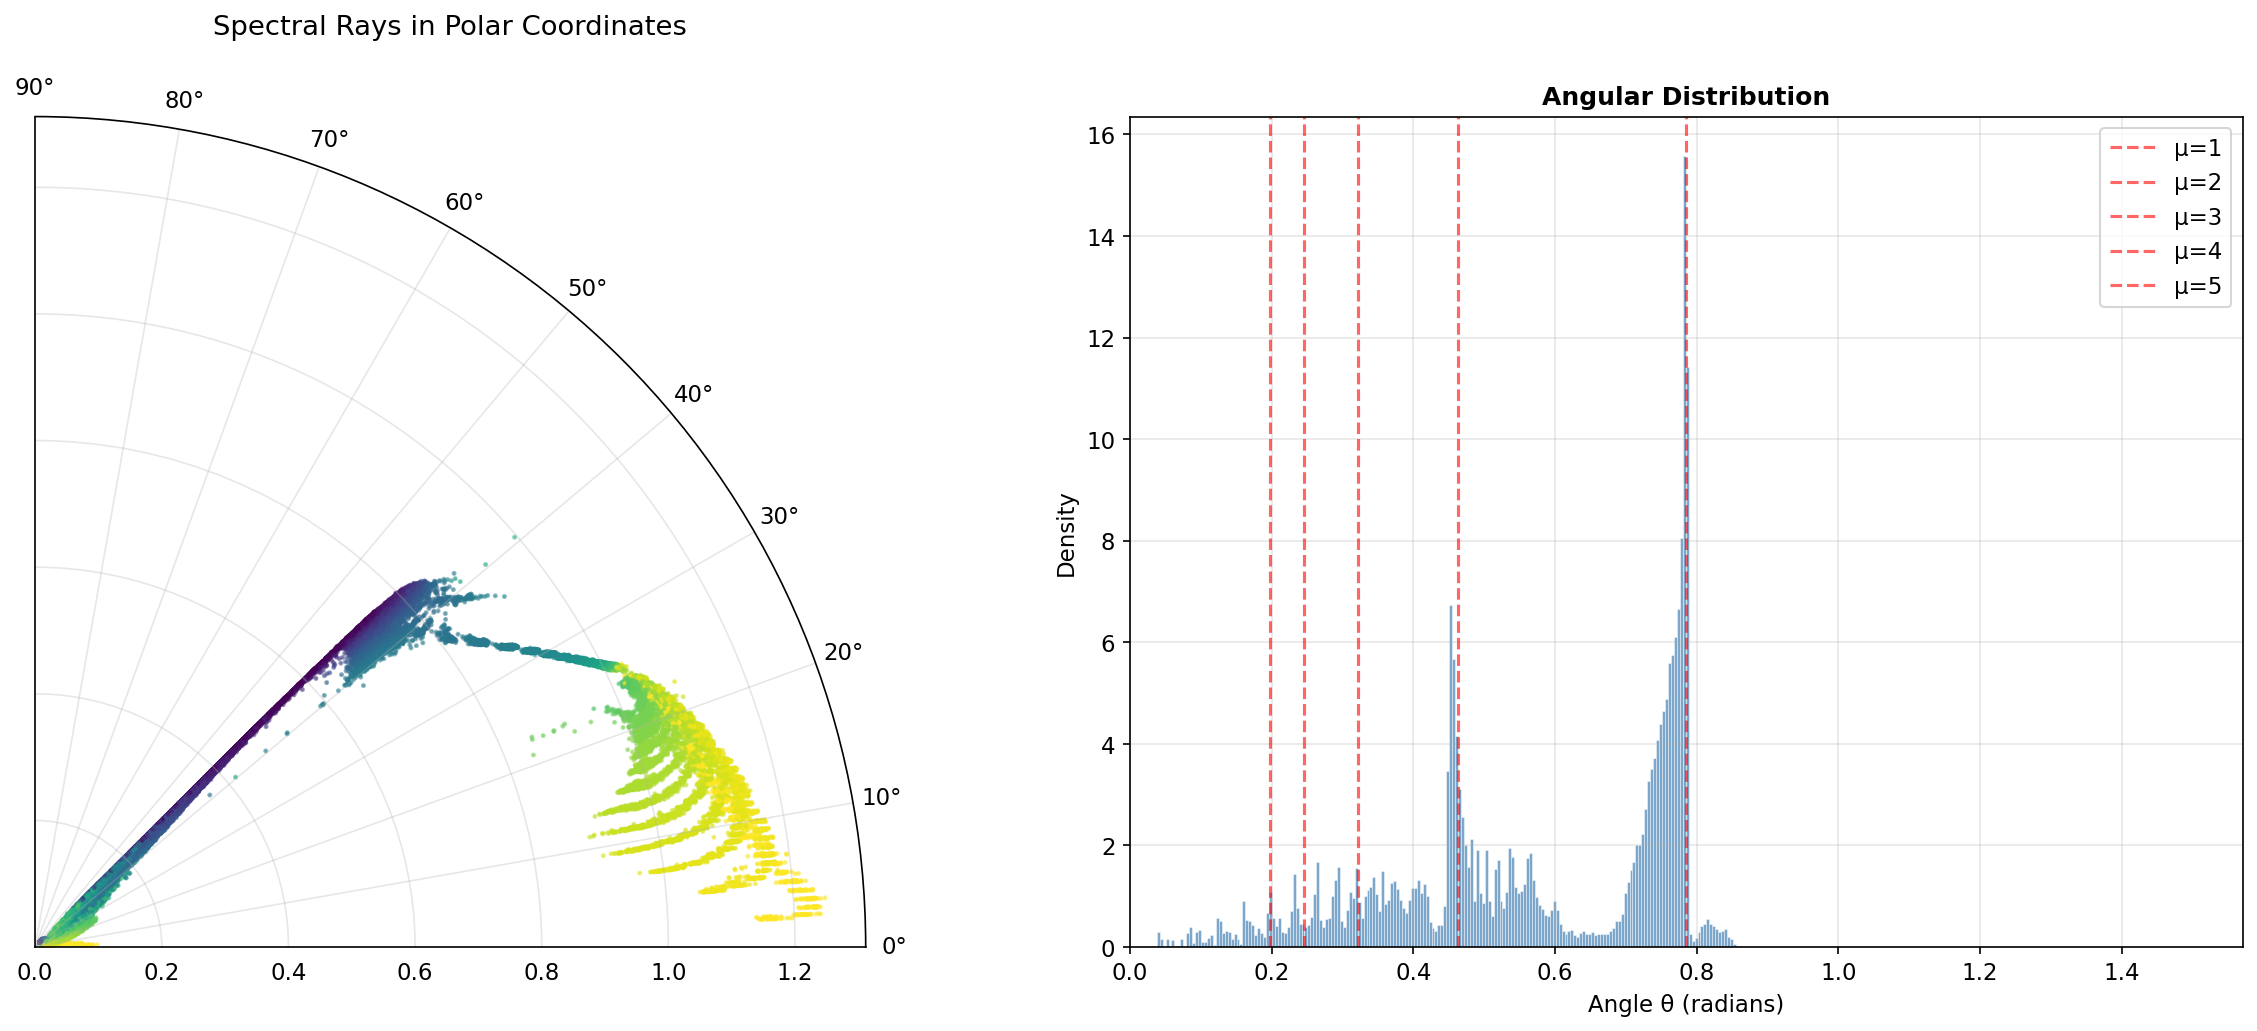
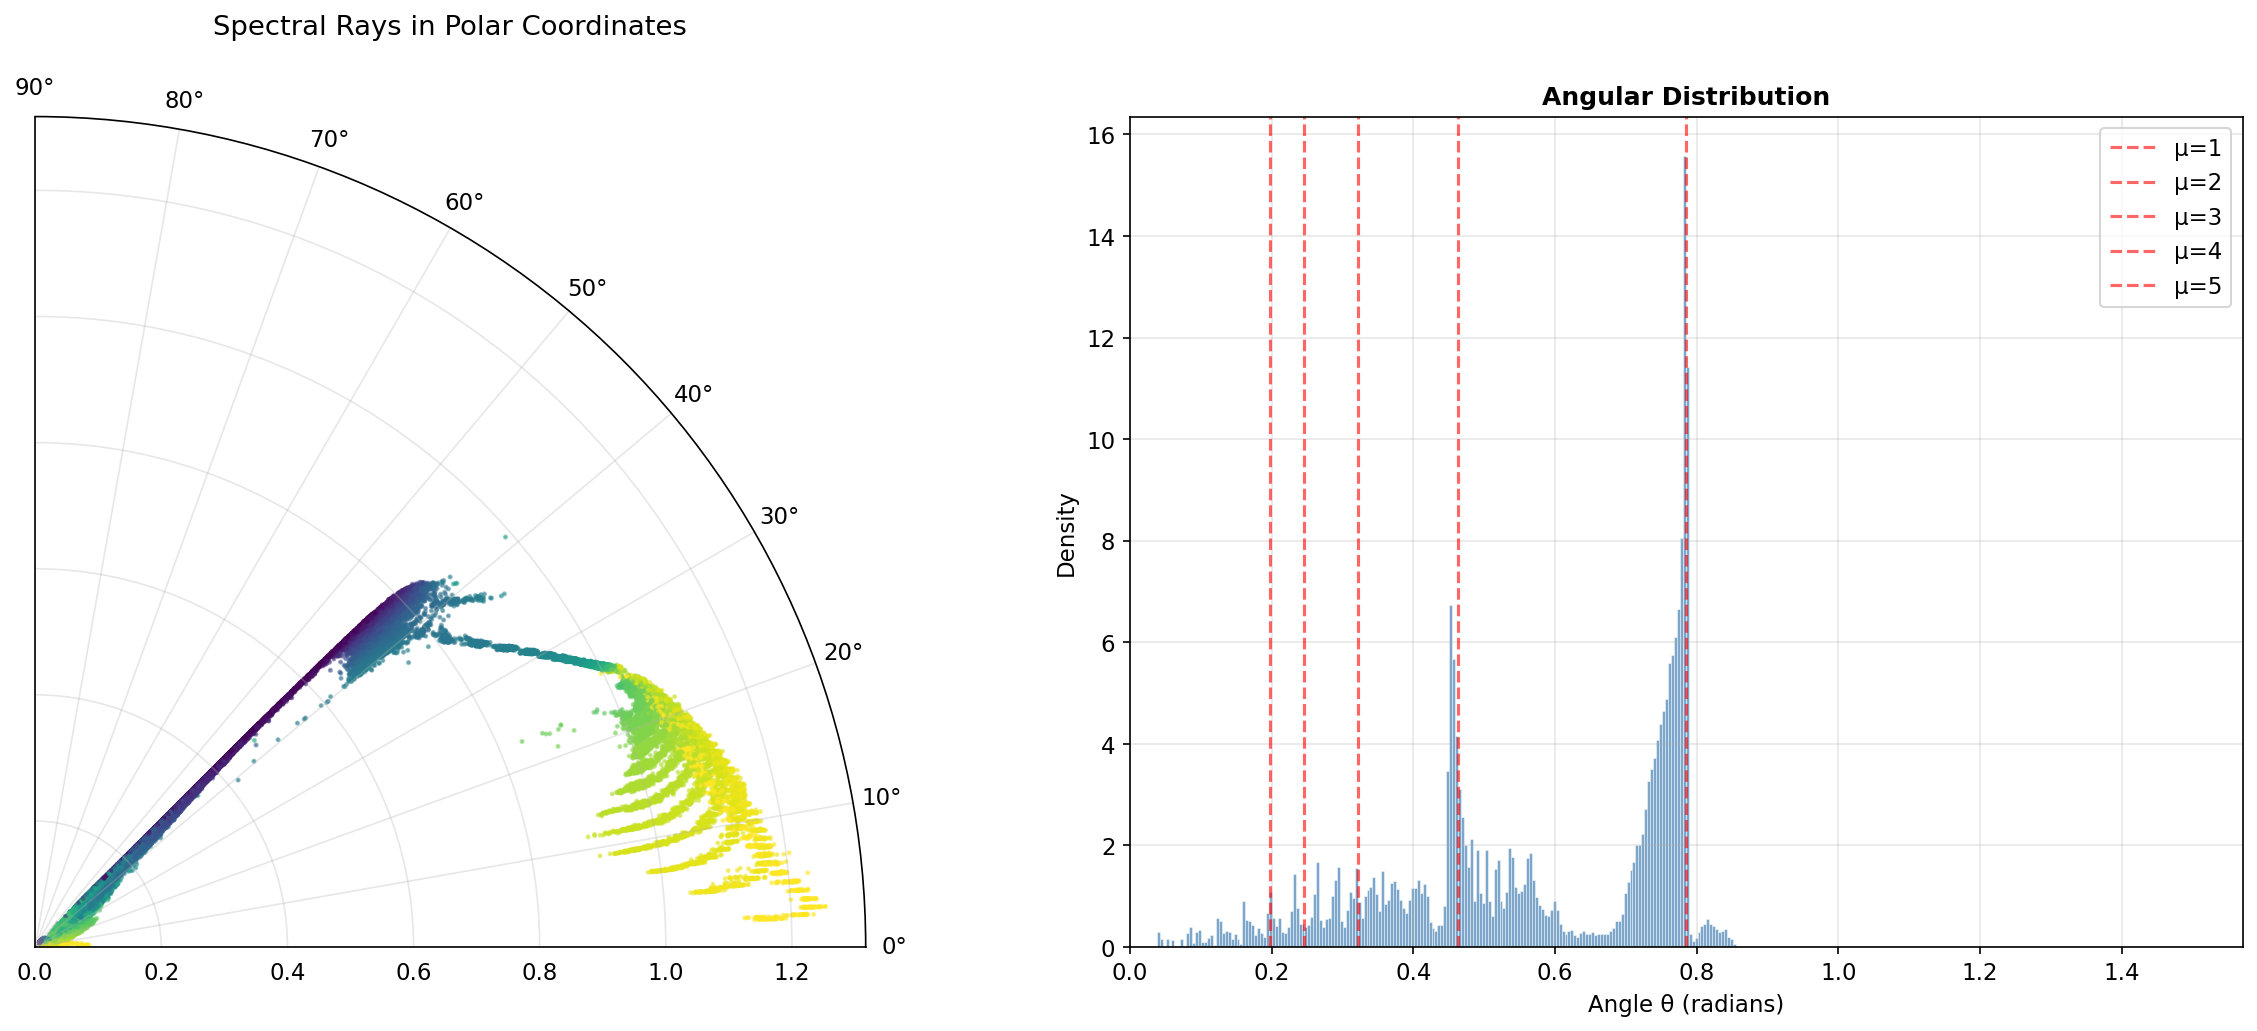
plot changed

diff --git a/public/dynamics/analysis/phase analysis/spectral_analysis.py b/public/dynamics/analysis/phase analysis/spectral_analysis.py
@@ -205,8 +205,9 @@ def plot_conservation_law(all_data):
     unique_sparsities = np.sort(np.unique(sparsities))
     n_sparsities = len(unique_sparsities)
 
-    # Create colormap: S=0 purple -> blue -> green -> yellow (S=1)
-    colors_list = ['#8B008B', '#4B0082', '#0000FF', '#00CED1', '#00FF00', '#ADFF2F', '#FFFF00']
+    # Create colormap: S=0 muted purple -> blue -> teal -> muted yellow-green (S=1)
+    # Subdued color palette
+    colors_list = ['#7B6D8E', '#6B7FA3', '#7A9BA8', '#92BABC', '#A8C9A7', '#C4D4A0', '#D4DBA0']
     sparsity_cmap = LinearSegmentedColormap.from_list('sparsity_gradient', colors_list, N=256)
 
     # Create figure - enlarged single plot
@@ -238,34 +239,33 @@ def plot_conservation_law(all_data):
     ax.axvline(mean_ratio, color='black', linestyle='-', linewidth=2.5,
                label=f'Mean = {mean_ratio:.6f}')
 
-    # Labels and title
-    ax.set_xlabel(r'$\sum_i D_i \,/\, m$', fontsize=16)
-    ax.set_ylabel('Count', fontsize=16)
+    # Labels and title (enlarged)
+    ax.set_xlabel(r'$\sum_i D_i \,/\, m$', fontsize=24)
+    ax.set_ylabel('Count', fontsize=24)
     ax.set_title('Conservation Law Accuracy: Distribution of $\\sum_i D_i / m$',
-                 fontsize=18, weight='bold', pad=15)
+                 fontsize=26, weight='bold', pad=15)
 
     # Add colorbar for sparsity
     sm = plt.cm.ScalarMappable(cmap=sparsity_cmap, norm=plt.Normalize(vmin=0, vmax=1))
     sm.set_array([])
     cbar = plt.colorbar(sm, ax=ax, pad=0.02)
-    cbar.set_label('Sparsity $S$', fontsize=14)
-    cbar.ax.tick_params(labelsize=12)
+    cbar.set_label('Sparsity $S$', fontsize=20)
+    cbar.ax.tick_params(labelsize=16)
 
     # Create legend with statistics
     stats_text = (f'Mean: {mean_ratio:.6f}\n'
                   f'Variance: {var_ratio:.2e}\n'
-                  f'Excess Kurtosis: {kurt_ratio:.2f}\n'
-                  f'N experiments: {len(ratios)}')
+                  f'Excess Kurtosis: {kurt_ratio:.2f}')
 
-    # Add statistics box
+    # Add statistics box (2x enlarged font)
     props = dict(boxstyle='round,pad=0.5', facecolor='wheat', alpha=0.8)
-    ax.text(0.02, 0.98, stats_text, transform=ax.transAxes, fontsize=13,
+    ax.text(0.02, 0.98, stats_text, transform=ax.transAxes, fontsize=26,
             verticalalignment='top', bbox=props, family='monospace')
 
     # Legend for lines
-    ax.legend(loc='upper right', fontsize=13, framealpha=0.9)
+    ax.legend(loc='upper right', fontsize=20, framealpha=0.9)
 
-    ax.tick_params(axis='both', which='major', labelsize=12)
+    ax.tick_params(axis='both', which='major', labelsize=18)
     ax.grid(True, alpha=0.3, linestyle='-', linewidth=0.5)
 
     plt.tight_layout()
